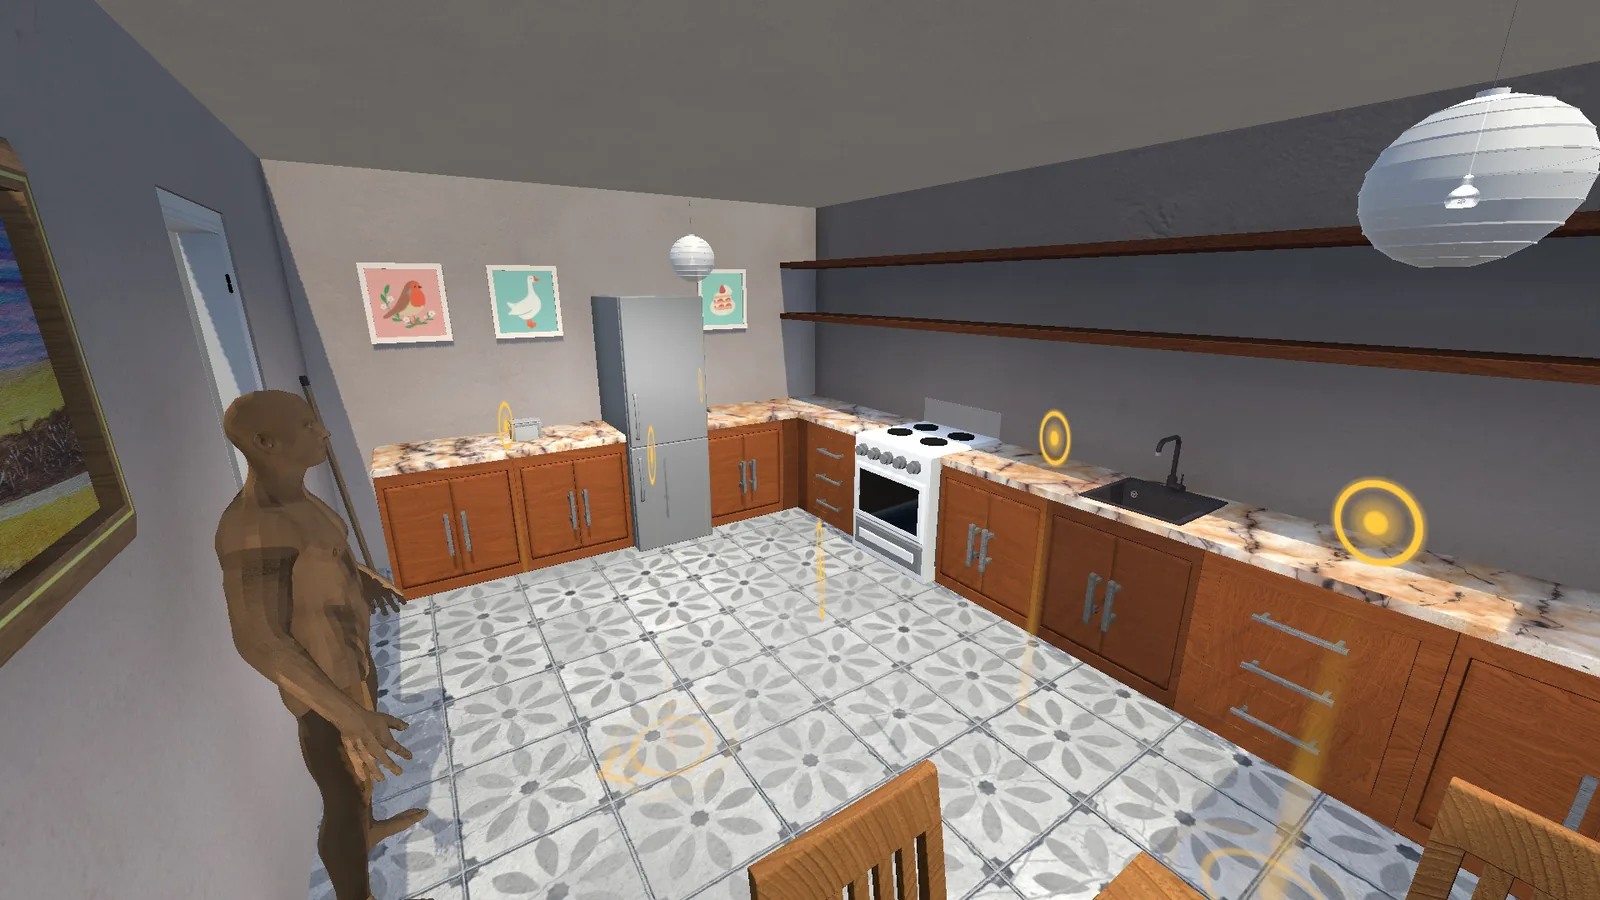
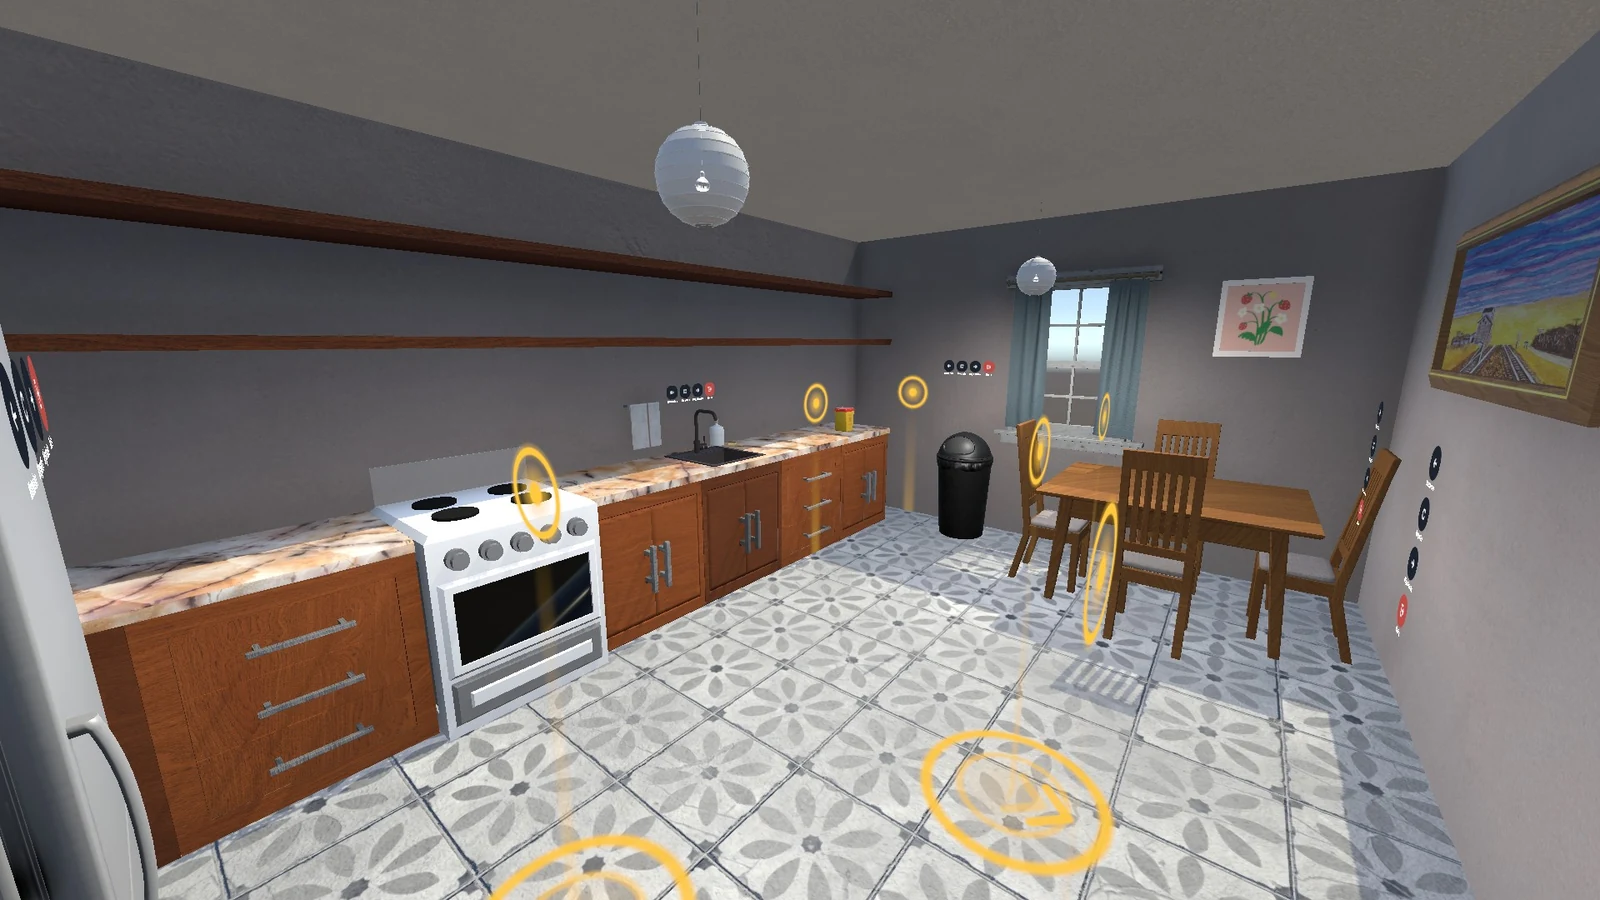
feat: actualiza la pagina de InsulinaVR con animaciones y diagramas

diff --git a/src/data/projects.ts b/src/data/projects.ts
@@ -56,12 +56,101 @@ export const projects: Project[] = [
         ],
       },
       {
+        id: 'curso',
+        title: 'El curso implementado',
+        blocks: [
+          {
+            type: 'paragraph',
+            text: 'El curso son cinco módulos encadenados y un examen por módulo. Cada módulo vive en una zona de la casa virtual, y cada paso combina una animación 3D, una narración con subtítulos y la botonera de navegación. Los exámenes se hacen en la sala de estudio.',
+          },
+          {
+            type: 'table',
+            columns: ['Módulo', 'Contenido', 'Pasos', 'Requiere'],
+            rows: [
+              ['M1', 'Extracción e inspección: animaciones de la nevera y las cinco cajas de insulina', '17', 'Ninguno'],
+              ['M2', 'Preparación e higiene: lavado de manos y preparación del lapicero', '17', 'M1'],
+              ['M3', 'Mapeo, rotación y asepsia', '10', 'M2'],
+              ['M4', 'Técnica de inyección', '10', 'M3'],
+              ['M5', 'Desecho seguro y conservación después del uso', '6', 'M4'],
+              ['EvalM1 a EvalM5', 'Examen de cada módulo, 2 preguntas y 60 % para aprobar', '2 cada uno', 'M1 a M5'],
+            ],
+          },
+          {
+            type: 'paragraph',
+            text: 'El módulo 2, de preparación e higiene, es el que más animación tiene: 14 clips que cubren el lavado de manos completo y la preparación del lapicero.',
+          },
+        ],
+      },
+      {
+        id: 'arquitectura',
+        title: 'Arquitectura',
+        blocks: [
+          {
+            type: 'paragraph',
+            text: 'El código se organiza en cinco capas que van de la entrada del usuario hasta los datos. Cada capa solo conoce a la de abajo, y los sistemas se comunican entre sí con un bus de eventos, así que agregar uno nuevo no obliga a tocar los que ya existen.',
+          },
+          {
+            type: 'media',
+            columns: 2,
+            items: [
+              { src: '/projects/insulinavr/diagrama-arquitectura.png', alt: 'Diagrama de la arquitectura del prototipo en cinco capas', label: 'Capas', caption: 'De la mirada del usuario hasta los datos, con el progreso guardado en JSON local.' },
+              { src: '/projects/insulinavr/diagrama-bus-eventos.png', alt: 'Diagrama del bus de eventos entre componentes', label: 'Bus de eventos', caption: 'Cada componente publica y escucha eventos sin llamar directamente a otro.' },
+            ],
+          },
+          {
+            type: 'media',
+            columns: 2,
+            items: [
+              { src: '/projects/insulinavr/diagrama-modelo-datos.png', alt: 'Diagrama de clases del modelo de contenido', label: 'Modelo de datos', caption: 'Los ScriptableObjects que guardan el contenido, el orden, la narración y las preguntas.', span: 2 },
+            ],
+          },
+        ],
+      },
+      {
+        id: 'animaciones',
+        title: 'Animaciones del módulo 2',
+        blocks: [
+          {
+            type: 'paragraph',
+            text: 'El módulo 2 cubre la preparación e higiene: el lavado de manos completo y la preparación del lapicero. Tiene 14 animaciones (pasos 2.2 a 2.17) y es el módulo con más trabajo de animación del prototipo.',
+          },
+          {
+            type: 'media',
+            columns: 2,
+            items: [
+              { src: '/projects/insulinavr/gifs/lavado-manos.gif', alt: 'Animación del frotado de palmas durante el lavado de manos', label: 'Frotar las palmas', caption: 'Uno de los pasos del lavado de manos, con la técnica de la OMS.' },
+              { src: '/projects/insulinavr/gifs/abrir-grifo.gif', alt: 'Animación de abrir el grifo y mojar las manos', label: 'Abrir el grifo', caption: 'El primer paso: abrir el grifo y mojar las manos.' },
+            ],
+          },
+        ],
+      },
+      {
         id: 'resultado',
         title: 'Resultado',
         blocks: [
           {
             type: 'paragraph',
             text: 'Al 1 de octubre de 2026 el avance ponderado era del 68 %, por encima del 60 % exigido para la entrega. Se ejecutaron 35 pruebas de verificación y se corrigieron 15 defectos. Faltan el tutorial, la pantalla de puntuaciones, más preguntas por examen y la validación con médicos de la Fundación Clínica de Floridablanca.',
+          },
+          {
+            type: 'paragraph',
+            text: 'El avance se calcula ponderando cada componente por su peso en el alcance, así que refleja el trabajo real y no una cuenta de pantallas terminadas.',
+          },
+          {
+            type: 'table',
+            columns: ['Componente', 'Peso', 'Avance'],
+            rows: [
+              ['Arquitectura base (datos, eventos, vinculación, registro)', '10 %', '100 %'],
+              ['Módulos de enseñanza M1 a M5 (60 pasos, botonera)', '25 %', '90 %'],
+              ['Interacción por mirada y teletransporte', '10 %', '95 %'],
+              ['Progreso persistente y reglas de desbloqueo', '10 %', '100 %'],
+              ['Árbol de avances', '5 %', '100 %'],
+              ['Exámenes EvalM1 a EvalM5', '15 %', '60 %'],
+              ['Tutorial', '5 %', '10 %'],
+              ['Pantalla de puntuaciones', '5 %', '0 %'],
+              ['Validación con expertos', '15 %', '10 %'],
+              ['Total ponderado', '100 %', '68 %'],
+            ],
           },
         ],
       },
@@ -80,7 +169,7 @@ export const projects: Project[] = [
       },
       {
         src: '/projects/insulinavr/vivienda-vista-superior.webp',
-        caption: 'Vista superior de la vivienda virtual: cocina, sala, vestíbulo y sala de estudio, con sus puntos de teletransporte.',
+        caption: 'Vista superior de la vivienda: la cocina arriba, la sala en el centro, el vestíbulo abajo a la izquierda y la sala de estudio a la derecha, con sus puntos de teletransporte.',
       },
       {
         src: '/projects/insulinavr/paso-modulo-1.webp',
@@ -91,8 +180,16 @@ export const projects: Project[] = [
         caption: 'Botonera estándar en un primer paso, un paso intermedio y el último.',
       },
       {
+        src: '/projects/insulinavr/botonera-situaciones.webp',
+        caption: 'Las siete situaciones de la botonera: cada paso decide qué botones se muestran según su posición en el módulo.',
+      },
+      {
         src: '/projects/insulinavr/teletransporte.webp',
         caption: 'Puntos de teletransporte con un color por cuarto. Al mirarlos crecen y se aclaran.',
+      },
+      {
+        src: '/projects/insulinavr/teletransporte-mantener.webp',
+        caption: 'Punto de teletransporte que exige mantener la vista: la barra se llena y solo entonces traslada al usuario.',
       },
       {
         src: '/projects/insulinavr/arbol-progreso.webp',
